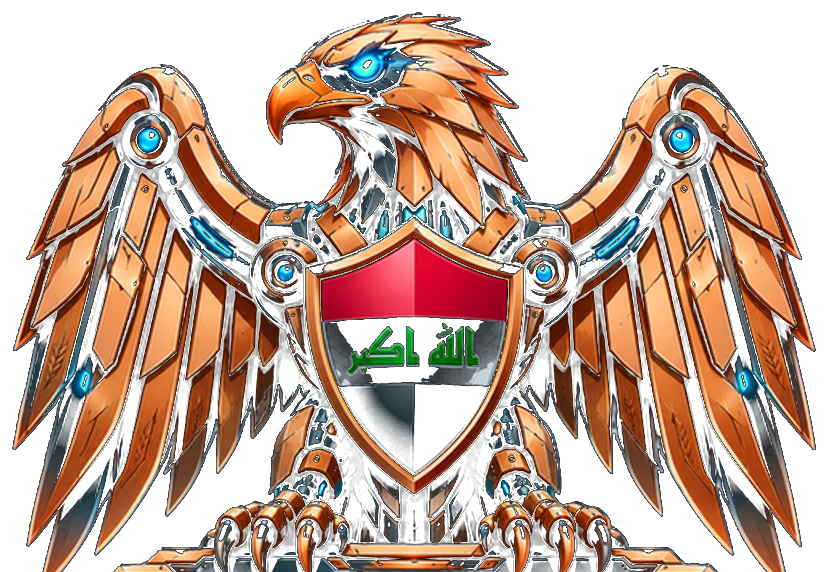
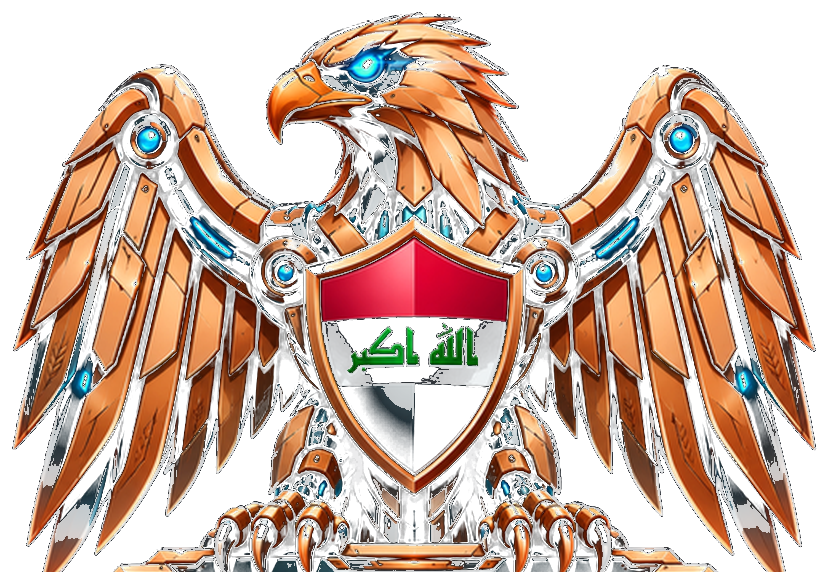
mobile: fix frame top-inset overlap and whiten flag's middle band
- CinematicFrame: the top inset was using half the safe-area value,
  letting the gold border overlap screen headers (e.g. "طلباتي"'s
  title). Now clears the full safe area + base margin.
- eagle-icon-transparent.png: brighten the shield's white band (it read
  as dark/grayish at small render sizes) toward pure white, while
  leaving the red/black bands, green script, and the eagle's own
  copper/blue coloring untouched.

diff --git a/mobile/components/ui/CinematicFrame.tsx b/mobile/components/ui/CinematicFrame.tsx
@@ -23,13 +23,13 @@ const GOLD65 = 'rgba(230,171,44,0.65)';
 
 // A single fixed inset on every side (never animated, never recalculated
 // per-frame) — the frame is exactly BASE_INSET from the true screen edge on
-// left/right/bottom. The top edge additionally clears the status bar/notch
-// via the safe-area inset, so it never sits too close to it, but this value
-// is computed once per device and stays constant — the frame never grows or
-// shrinks while the app is running.
+// left/right/bottom. The top edge additionally clears the *entire* status
+// bar/notch via the full safe-area inset (not a fraction of it) plus the
+// same base margin, so it never sits close enough to overlap a screen's own
+// header content. Computed once per device and never animated.
 export function CinematicFrame() {
   const insets = useSafeAreaInsets();
-  const topInset = Math.max(BASE_INSET, insets.top * 0.5 + BASE_INSET);
+  const topInset = insets.top + BASE_INSET;
 
   return (
     <View style={styles.frame} pointerEvents="none">
